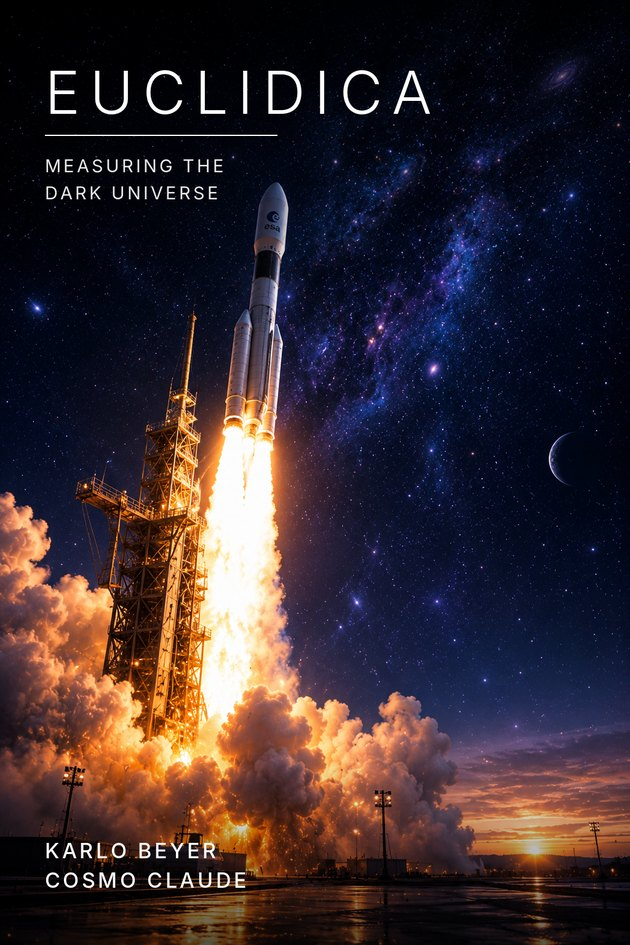
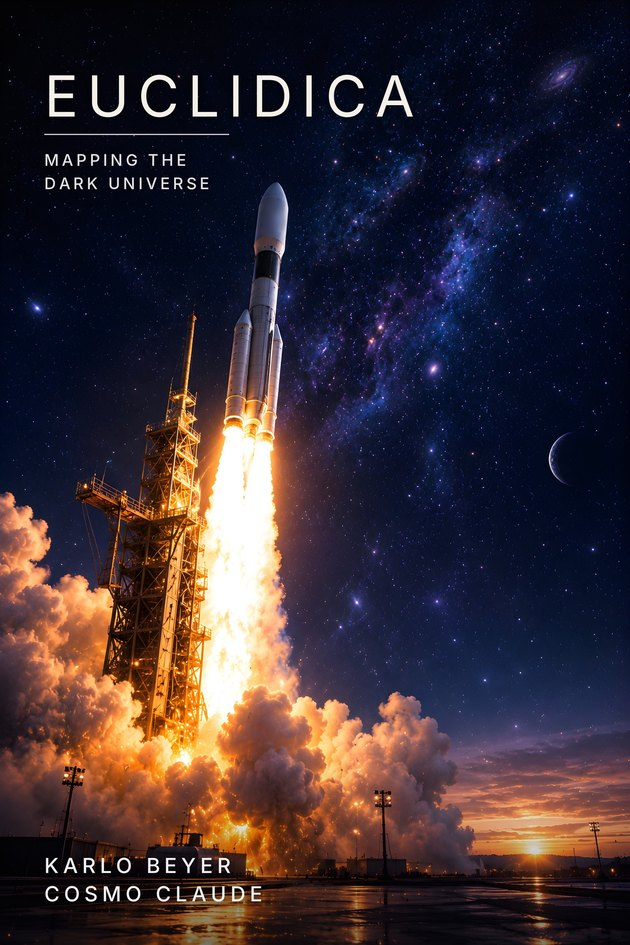
Euclidica erhältlich: Bezugsquellen, ISBN, endgültige Cover
- euclidica.html, en/euclidica.html: Knöpfe (tredition EN, Books2Read, Kindle), Tabelle der Ausgaben, JSON-LD mit Angeboten
- index.html, en/index.html: Status Erhältlich/Available, Bezugslinks
- img: endgültige Umschläge DE und EN (ohne Logo, EN-Untertitel Mapping the Dark Universe)
- llms.txt, sitemap.xml nachgeführt

Claude-Session: https://claude.ai/code/session_01Ho6FAB4deSu3325qhibsG5

diff --git a/euclidica.html b/euclidica.html
@@ -8,7 +8,7 @@
 <link rel="apple-touch-icon" href="img/apple-touch-icon.png">
 <meta name="color-scheme" content="only light">
 <title>Euclidica — Weltraumteleskope, dunkle Energie und die Grossstruktur des Universums | Verlag von Bedeutung</title>
-<meta name="description" content="Euclidica von Karlo Beyer und Cosmo Claude: Weltraumteleskope, dunkle Energie und die Grossstruktur des Universums. Erscheint 2027.">
+<meta name="description" content="Euclidica von Karlo Beyer und Cosmo Claude: Weltraumteleskope, dunkle Energie und die Grossstruktur des Universums. Erhältlich auf Deutsch und Englisch, als Taschenbuch und E-Book.">
 <link rel="stylesheet" href="fonts/fonts.css">
 <style>
   /* Layout: ein breites Papierblatt vor dem Sternenhimmel; oben eine dunkle Bildleiste, darunter Regal-Zeilen Cover + Klappentext */
@@ -153,8 +153,8 @@
 <link rel="alternate" hreflang="de" href="https://verlagvonbedeutung.com/euclidica.html">
 <link rel="alternate" hreflang="en" href="https://verlagvonbedeutung.com/en/euclidica.html">
 <link rel="alternate" hreflang="x-default" href="https://verlagvonbedeutung.com/euclidica.html">
-<meta property="og:type" content="book"><meta property="og:site_name" content="Verlag von Bedeutung"><meta property="og:title" content="Euclidica — Weltraumteleskope, dunkle Energie und die Grossstruktur des Universums | Verlag von Bedeutung"><meta property="og:description" content="Euclidica von Karlo Beyer und Cosmo Claude: Weltraumteleskope, dunkle Energie und die Grossstruktur des Universums. Erscheint 2027.">
-<meta property="og:image" content="https://verlagvonbedeutung.com/img/cover_euclidica_prov.jpg"><meta name="twitter:card" content="summary_large_image">
+<meta property="og:type" content="book"><meta property="og:site_name" content="Verlag von Bedeutung"><meta property="og:title" content="Euclidica — Weltraumteleskope, dunkle Energie und die Grossstruktur des Universums | Verlag von Bedeutung"><meta property="og:description" content="Euclidica von Karlo Beyer und Cosmo Claude: Weltraumteleskope, dunkle Energie und die Grossstruktur des Universums. Erhältlich auf Deutsch und Englisch, als Taschenbuch und E-Book.">
+<meta property="og:image" content="https://verlagvonbedeutung.com/img/cover_euclidica.jpg"><meta name="twitter:card" content="summary_large_image">
 <script type="application/ld+json">
 {
  "@context": "https://schema.org",
@@ -179,8 +179,58 @@
    "publisher": {
     "@id": "https://verlagvonbedeutung.com/#publisher"
    },
-   "image": "https://verlagvonbedeutung.com/img/cover_euclidica_prov.jpg",
-   "url": "https://verlagvonbedeutung.com/euclidica.html"
+   "image": "https://verlagvonbedeutung.com/img/cover_euclidica.jpg",
+   "url": "https://verlagvonbedeutung.com/euclidica.html",
+   "offers": [
+    {
+     "@type": "Offer",
+     "url": "https://shop.tredition.com/booktitle/Euclidica/W-412-025-291",
+     "availability": "https://schema.org/InStock",
+     "itemOffered": {
+      "@type": "Book",
+      "bookFormat": "https://schema.org/Paperback",
+      "inLanguage": "en"
+     }
+    },
+    {
+     "@type": "Offer",
+     "url": "https://www.amazon.com/dp/B0HSNPTKV6",
+     "availability": "https://schema.org/InStock",
+     "itemOffered": {
+      "@type": "Book",
+      "bookFormat": "https://schema.org/EBook",
+      "inLanguage": "en"
+     }
+    },
+    {
+     "@type": "Offer",
+     "url": "https://books2read.com/u/7kMX6g",
+     "availability": "https://schema.org/InStock",
+     "itemOffered": {
+      "@type": "Book",
+      "bookFormat": "https://schema.org/EBook",
+      "inLanguage": "en"
+     }
+    }
+   ],
+   "datePublished": "2026-11-24",
+   "workExample": [
+    {
+     "@type": "Book",
+     "bookFormat": "https://schema.org/Paperback",
+     "inLanguage": "en",
+     "isbn": "978-3-567-07674-9",
+     "numberOfPages": 256,
+     "url": "https://shop.tredition.com/booktitle/Euclidica/W-412-025-291"
+    },
+    {
+     "@type": "Book",
+     "bookFormat": "https://schema.org/EBook",
+     "inLanguage": "en",
+     "isbn": "979-8-2379-5278-0",
+     "url": "https://books2read.com/u/7kMX6g"
+    }
+   ]
   },
   {
    "@type": "Organization",
@@ -222,13 +272,13 @@
   </header>
   <div class="inner">
     <section class="buchkopf">
-      <div class="cover"><img src="img/cover_euclidica_prov.jpg" alt="Euclidica, Cover"></div>
+      <div class="cover"><img src="img/cover_euclidica.jpg" alt="Euclidica, Cover"></div>
       <div>
         <p class="text">Das Weltraumteleskop Euclid der ESA ist das Jahrhundertprojekt, auf das die Kosmologie gewartet hat. Es vermisst die Positionen von Milliarden Galaxien genauer, als je ein Instrument zuvor. Die grösste dreidimensionale Karte des Universums wird offene Fragen der Physik beantworten. Wir begleiten dieses Technikwunder auf seiner Reise und ordnen ein, was es findet.</p>
-        <div class="knoepfe"><a class="knopf haupt" href="index.html">Zum Verlag</a></div>
+        <div class="knoepfe"><a class="knopf haupt" href="index.html">Zum Verlag</a><a class="knopf" href="https://shop.tredition.com/booktitle/Euclidica/W-412-025-291" target="_blank" rel="noopener">Taschenbuch English</a><a class="knopf" href="https://books2read.com/u/7kMX6g" target="_blank" rel="noopener">E-Book English</a><a class="knopf" href="https://www.amazon.com/dp/B0HSNPTKV6" target="_blank" rel="noopener">Kindle English</a></div>
       </div>
     </section>
-    <section class="abschnitt"><h2>Stand</h2><p>Erscheint 2027.</p></section>
+    <section class="abschnitt"><h2>Die Ausgaben</h2><table class="daten"><tr><th>Autoren</th><td>Karlo Beyer und Cosmo Claude</td></tr><tr><th>Verlag</th><td>Verlag von Bedeutung, Zürich</td></tr><tr><th>Reihe</th><td>Clearance for Takeoff, Band 3</td></tr><tr><th>Untertitel</th><td>Die Vermessung des dunklen Universums · Mapping the Dark Universe</td></tr><tr><th>Englisch</th><td>Softcover ISBN 978-3-567-07674-9 · E-Book ISBN 979-8-2379-5278-0 · 256 Seiten</td></tr><tr><th>Deutsch</th><td>Softcover ISBN 978-3-567-07664-0 · E-Book ISBN 978-3-567-07665-7 · 268 Seiten</td></tr><tr><th>Bezug</th><td><a href="https://shop.tredition.com/booktitle/Euclidica/W-412-025-291" target="_blank" rel="noopener">Taschenbuch English</a> · <a href="https://books2read.com/u/7kMX6g" target="_blank" rel="noopener">E-Book English (alle Shops)</a> · <a href="https://www.amazon.com/dp/B0HSNPTKV6" target="_blank" rel="noopener">English Kindle</a> · Ausgabe Deutsch im Buchhandel über die ISBN</td></tr><tr><th>Erschienen</th><td>November 2026</td></tr></table></section>
     <section class="abschnitt" style="border-bottom:none">
       <h2>Wer schreibt hier</h2>
       <p>Das Buch entsteht im Dialog zwischen Karlo Beyer und Cosmo Claude, einer KI von Anthropic. Karlo Beyer verantwortet alle Inhalte.</p>

diff --git a/en/euclidica.html b/en/euclidica.html
@@ -8,7 +8,7 @@
 <link rel="apple-touch-icon" href="../img/apple-touch-icon.png">
 <meta name="color-scheme" content="only light">
 <title>Euclidica — Space telescopes, dark energy and the large-scale structure of the universe | Verlag von Bedeutung</title>
-<meta name="description" content="Euclidica by Karlo Beyer and Cosmo Claude: space telescopes, dark energy and the large-scale structure of the universe. Coming 2027.">
+<meta name="description" content="Euclidica by Karlo Beyer and Cosmo Claude: space telescopes, dark energy and the large-scale structure of the universe. Available in English and German, as paperback and e-book.">
 <link rel="stylesheet" href="../fonts/fonts.css">
 <style>
   /* Layout: ein breites Papierblatt vor dem Sternenhimmel; oben eine dunkle Bildleiste, darunter Regal-Zeilen Cover + Klappentext */
@@ -153,7 +153,7 @@
 <link rel="alternate" hreflang="de" href="https://verlagvonbedeutung.com/euclidica.html">
 <link rel="alternate" hreflang="en" href="https://verlagvonbedeutung.com/en/euclidica.html">
 <link rel="alternate" hreflang="x-default" href="https://verlagvonbedeutung.com/euclidica.html">
-<meta property="og:type" content="book"><meta property="og:site_name" content="Verlag von Bedeutung"><meta property="og:title" content="Euclidica — Space telescopes, dark energy and the large-scale structure of the universe | Verlag von Bedeutung"><meta property="og:description" content="Euclidica by Karlo Beyer and Cosmo Claude: space telescopes, dark energy and the large-scale structure of the universe. Coming 2027.">
+<meta property="og:type" content="book"><meta property="og:site_name" content="Verlag von Bedeutung"><meta property="og:title" content="Euclidica — Space telescopes, dark energy and the large-scale structure of the universe | Verlag von Bedeutung"><meta property="og:description" content="Euclidica by Karlo Beyer and Cosmo Claude: space telescopes, dark energy and the large-scale structure of the universe. Available in English and German, as paperback and e-book.">
 <meta property="og:image" content="https://verlagvonbedeutung.com/img/cover_euclidica_en.jpg"><meta name="twitter:card" content="summary_large_image">
 <script type="application/ld+json">
 {
@@ -180,7 +180,57 @@
     "@id": "https://verlagvonbedeutung.com/#publisher"
    },
    "image": "https://verlagvonbedeutung.com/img/cover_euclidica_en.jpg",
-   "url": "https://verlagvonbedeutung.com/en/euclidica.html"
+   "url": "https://verlagvonbedeutung.com/en/euclidica.html",
+   "offers": [
+    {
+     "@type": "Offer",
+     "url": "https://shop.tredition.com/booktitle/Euclidica/W-412-025-291",
+     "availability": "https://schema.org/InStock",
+     "itemOffered": {
+      "@type": "Book",
+      "bookFormat": "https://schema.org/Paperback",
+      "inLanguage": "en"
+     }
+    },
+    {
+     "@type": "Offer",
+     "url": "https://www.amazon.com/dp/B0HSNPTKV6",
+     "availability": "https://schema.org/InStock",
+     "itemOffered": {
+      "@type": "Book",
+      "bookFormat": "https://schema.org/EBook",
+      "inLanguage": "en"
+     }
+    },
+    {
+     "@type": "Offer",
+     "url": "https://books2read.com/u/7kMX6g",
+     "availability": "https://schema.org/InStock",
+     "itemOffered": {
+      "@type": "Book",
+      "bookFormat": "https://schema.org/EBook",
+      "inLanguage": "en"
+     }
+    }
+   ],
+   "datePublished": "2026-11-24",
+   "workExample": [
+    {
+     "@type": "Book",
+     "bookFormat": "https://schema.org/Paperback",
+     "inLanguage": "en",
+     "isbn": "978-3-567-07674-9",
+     "numberOfPages": 256,
+     "url": "https://shop.tredition.com/booktitle/Euclidica/W-412-025-291"
+    },
+    {
+     "@type": "Book",
+     "bookFormat": "https://schema.org/EBook",
+     "inLanguage": "en",
+     "isbn": "979-8-2379-5278-0",
+     "url": "https://books2read.com/u/7kMX6g"
+    }
+   ]
   },
   {
    "@type": "Organization",
@@ -225,10 +275,10 @@
       <div class="cover"><img src="../img/cover_euclidica_en.jpg" alt="Euclidica, cover"></div>
       <div>
         <p class="text">ESA's Euclid space telescope is the project of the century that cosmology has been waiting for. It measures the positions of billions of galaxies more precisely than any instrument before. The largest three-dimensional map of the universe will answer open questions in physics. We accompany this marvel of engineering on its journey and make sense of what it finds.</p>
-        <div class="knoepfe"><a class="knopf haupt" href="./">To the publisher</a></div>
+        <div class="knoepfe"><a class="knopf haupt" href="./">To the publisher</a><a class="knopf" href="https://shop.tredition.com/booktitle/Euclidica/W-412-025-291" target="_blank" rel="noopener">Paperback</a><a class="knopf" href="https://books2read.com/u/7kMX6g" target="_blank" rel="noopener">E-book</a><a class="knopf" href="https://www.amazon.com/dp/B0HSNPTKV6" target="_blank" rel="noopener">Kindle</a></div>
       </div>
     </section>
-    <section class="abschnitt"><h2>Status</h2><p>Coming 2027.</p></section>
+    <section class="abschnitt"><h2>The editions</h2><table class="daten"><tr><th>Authors</th><td>Karlo Beyer and Cosmo Claude</td></tr><tr><th>Publisher</th><td>Verlag von Bedeutung, Zurich</td></tr><tr><th>Series</th><td>Clearance for Takeoff, Volume 3</td></tr><tr><th>Subtitle</th><td>Mapping the Dark Universe</td></tr><tr><th>English</th><td>Paperback ISBN 978-3-567-07674-9 · e-book ISBN 979-8-2379-5278-0 · 256 pages</td></tr><tr><th>German</th><td>Softcover ISBN 978-3-567-07664-0 · e-book ISBN 978-3-567-07665-7 · 268 pages</td></tr><tr><th>Where to buy</th><td><a href="https://shop.tredition.com/booktitle/Euclidica/W-412-025-291" target="_blank" rel="noopener">Paperback</a> · <a href="https://books2read.com/u/7kMX6g" target="_blank" rel="noopener">E-book (all stores)</a> · <a href="https://www.amazon.com/dp/B0HSNPTKV6" target="_blank" rel="noopener">Kindle</a> · German edition from any bookstore by ISBN</td></tr><tr><th>Published</th><td>November 2026</td></tr></table></section>
     <section class="abschnitt" style="border-bottom:none">
       <h2>Who writes here</h2>
       <p>The book is written in dialogue between Karlo Beyer and Cosmo Claude, an AI from Anthropic. Karlo Beyer is responsible for all content.</p>

diff --git a/index.html b/index.html
@@ -378,11 +378,12 @@
       </article>
 
       <article class="buch">
-        <div class="cover"><a href="euclidica.html"><img src="img/cover_euclidica_prov.jpg" alt="Euclidica, Cover"></a></div>
+        <div class="cover"><a href="euclidica.html"><img src="img/cover_euclidica.jpg" alt="Euclidica, Cover"></a></div>
         <div>
-          <h4 class="titel"><a href="euclidica.html" style="color:inherit;text-decoration:none">Euclidica</a> <span class="status">In Arbeit</span></h4>
+          <h4 class="titel"><a href="euclidica.html" style="color:inherit;text-decoration:none">Euclidica</a> <span class="status da">Erhältlich</span></h4>
           <p class="ut">Weltraumteleskope, dunkle Energie und die Grossstruktur des Universums</p>
           <p class="text">Das Weltraumteleskop Euclid der ESA ist das Jahrhundertprojekt, auf das die Kosmologie gewartet hat. Es vermisst die Positionen von Milliarden Galaxien genauer, als je ein Instrument zuvor. Die grösste dreidimensionale Karte des Universums wird offene Fragen der Physik beantworten. Wir begleiten dieses Technikwunder auf seiner Reise und ordnen ein, was es findet.</p>
+          <div class="bezug"><a href="euclidica.html">Mehr zum Buch</a><span class="folgt">Ausgabe Deutsch</span><a href="https://shop.tredition.com/booktitle/Euclidica/W-412-025-291" target="_blank" rel="noopener">Print English</a><a href="https://books2read.com/u/7kMX6g" target="_blank" rel="noopener">E-Book English</a><a href="https://www.amazon.com/dp/B0HSNPTKV6" target="_blank" rel="noopener">Amazon</a></div>
         </div>
       </article>
     </section>

diff --git a/en/index.html b/en/index.html
@@ -380,9 +380,10 @@
       <article class="buch">
         <div class="cover"><a href="euclidica.html"><img src="../img/cover_euclidica_en.jpg" alt="Euclidica, cover"></a></div>
         <div>
-          <h4 class="titel"><a href="euclidica.html" style="color:inherit;text-decoration:none">Euclidica</a> <span class="status">In the making</span></h4>
+          <h4 class="titel"><a href="euclidica.html" style="color:inherit;text-decoration:none">Euclidica</a> <span class="status da">Available</span></h4>
           <p class="ut">Space telescopes, dark energy and the large-scale structure of the universe</p>
           <p class="text">ESA's Euclid space telescope is the project of the century that cosmology has been waiting for. It measures the positions of billions of galaxies more precisely than any instrument before. The largest three-dimensional map of the universe will answer open questions in physics. We accompany this marvel of engineering on its journey and make sense of what it finds.</p>
+          <div class="bezug"><a href="euclidica.html">About the book</a><a href="https://shop.tredition.com/booktitle/Euclidica/W-412-025-291" target="_blank" rel="noopener">English print</a><a href="https://books2read.com/u/7kMX6g" target="_blank" rel="noopener">English e-book</a><a href="https://www.amazon.com/dp/B0HSNPTKV6" target="_blank" rel="noopener">Amazon</a><span class="folgt">German edition</span></div>
         </div>
       </article>
     </section>
